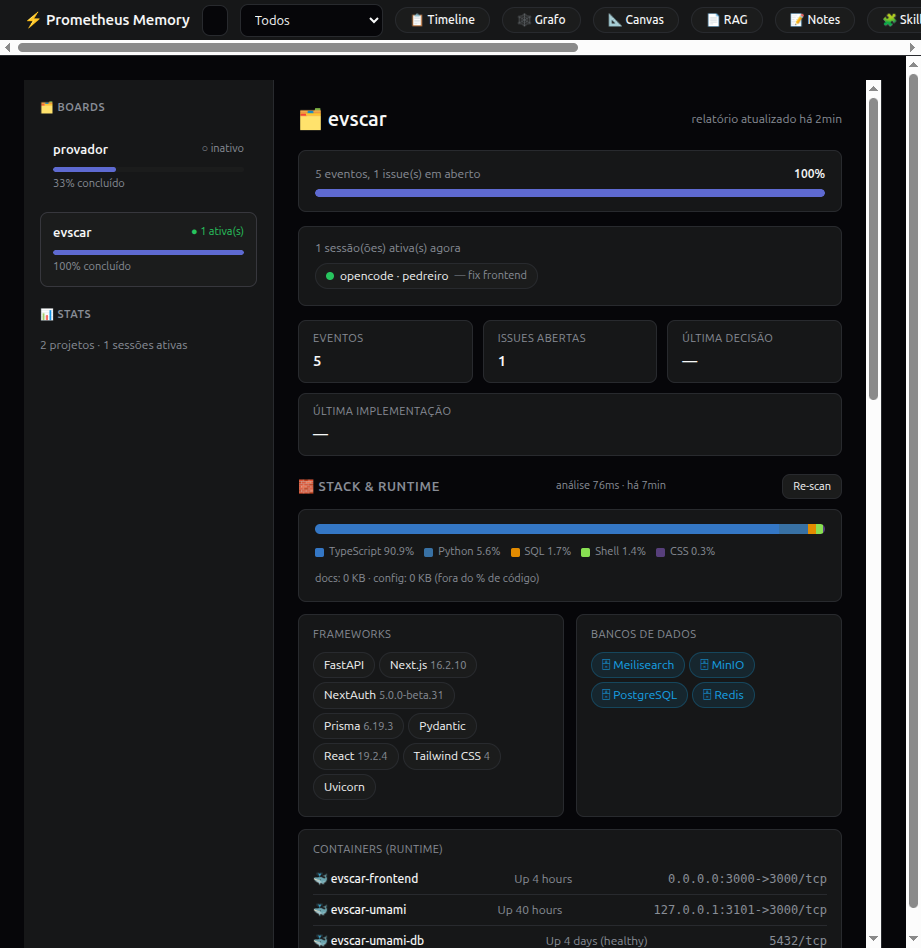
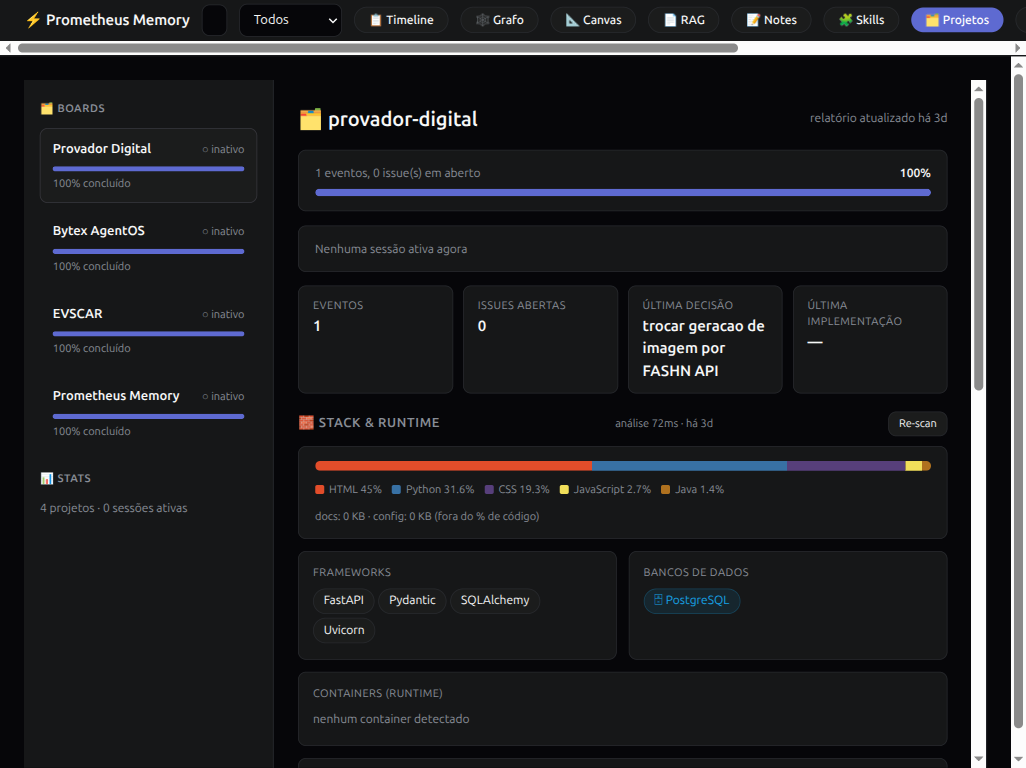
docs: atualiza 5 screenshots da UI (Canvas v2 multi-projeto, Timeline, Notes, RAG, Projetos) + PLANs identidade git e fix autoria PR #639
- Screenshots novos capturados via Playwright (:8777) e validados pelo Visionario (GLM-4.5v 5/5 nota 9, sem dados sensiveis)
- docs/PLAN_FIX_AUTORIA_PR639.md: registro do incidente de autoria (herbert@ -> hofstatter@) e correcao
- docs/PLAN_IDENTIDADE_GIT_MCPS_SCREENSHOTS.md: plano das 3 camadas de identidade git + roteamento MCPs + screenshots

diff --git a/docs/PLAN_FIX_AUTORIA_PR639.md b/docs/PLAN_FIX_AUTORIA_PR639.md
@@ -1,0 +1,35 @@
+# PLAN — Fix de autoria dos commits da PR #639 (upstream mnemosyne)
+
+- **Classificação:** SMALL · **Estado:** EXECUTADO sessão 44 (06/08/2026)
+- **Motivo:** commits `e97a122`/`1cc4aa0`/`df7e49b` da PR #639 (mnemosyne-oss/mnemosyne) foram
+  commitados com e-mail `herbert@users.noreply.github.com` — noreply de uma conta GitHub **alheia**
+  (username "herbert"), não a do Herbert (username real: `hofstatter`). CLAassistant exige que todos
+  os autores assinem o CLA → impossível pois "herbert" não é conta do Herbert.
+- **Objetivo:** reescrever autor/committer para `Herbert Hofstatter <hofstatter@users.noreply.github.com>`
+  e force-push na branch da PR. Conteúdo dos commits: **zero alteração**.
+
+---
+
+## Fases
+
+| Fase | Ação | Critério de aceite | Status |
+|---|---|---|---|
+| 0 | Backup (STATE/CONTEXT/GUARDRAILS) + este PLAN | backup exit 0 | ✅ |
+| 1 | Clonar fork `hofstatter/mnemosyne` (em /tmp) + checkout `feat/lexical-gate-knob` | branch checkout | ⏳ |
+| 2 | `git filter-branch --env-filter` → reescreve autor/committer dos 3 commits para hofstatter@ | `git log` mostra só hofstatter@ | ⏳ |
+| 3 | Validar: `git log --format` = 4 commits, 3 com hofstatter@ + 1 web (herbertsuporte@gmail.com) intacto; conteúdo idêntico (tree hash) | tree hashes iguais | ⏳ |
+| 4 | Force-push `--force-with-lease` com GH_PAT (credential helper inline, aspas duplas) | push exit 0; GitHub mostra commits com hofstatter | ⏳ |
+| 5 | `git config --global user.name/email` = Herbert Hofstatter / hofstatter@users.noreply.github.com | `git config --global user.email` retorna hofstatter@ | ⏳ |
+| 6 | GUARDRAILS regra 20 (GIT GATE): Inspetor verifica autor dos commits == hofstatter@ em toda revisão pré-push | grep no GUARDRAILS | ⏳ |
+| 7 | STATE/CONTEXT/Mnemosyne: incidente + lição | seções atualizadas + memórias | ⏳ |
+
+## Riscos / armadilhas
+
+- Force-push em branch de PR aberta: seguro se ninguém deu checkout (mantenedores não revisaram —
+  janela ideal). `--force-with-lease` protege contra overwrite de push alheio.
+- `filter-branch` é deprecated mas funciona; usar `--env-filter` só trocando e-mail, nunca conteúdo.
+- NÃO tocar no 4º commit `0a05989` (web, já atribuído a hofstatter via herbertsuporte@gmail.com).
+- Não rebasear sobre main atual (scope creep) — a PR está "out-of-date" mas mergeável; mantenedor decide.
+- GH_PAT: usar aspas DUPLAS no credential helper inline (aspas simples não expandem a variável —
+  erro da sessão 44 no push do prometheus-memory).
+- Depois do force-push: CI re-roda (~5min) + CodeRabbit re-revisa — inofensivo; CLA rechecka automático.

diff --git a/docs/PLAN_IDENTIDADE_GIT_MCPS_SCREENSHOTS.md b/docs/PLAN_IDENTIDADE_GIT_MCPS_SCREENSHOTS.md
@@ -1,0 +1,40 @@
+# PLAN — Identidade git canônica (3 camadas) + MCPs nos agentes + screenshots Opção B
+
+- **Classificação:** SMALL · **Estado:** EXECUTADO sessão 44 (06/08/2026)
+- **Motivo:** incidente PR #639 (commits com e-mail de conta alheia `herbert@...`). Herbert aprovou
+  as 3 camadas de prevenção + verificação de uso correto dos MCPs pelos agentes + atualizar os 5
+  screenshots desatualizados do repo.
+
+---
+
+## Fases
+
+| # | Ação | Critério de aceite | Status |
+|---|---|---|---|
+| 0 | Backup + este PLAN | backup exit 0 | ⏳ |
+| 1 | **Camada 2:** bloco identidade canônica + MCPs D6/D8 no `build.md` (Pedreiro) e `inspector.md` (checklist identidade) | grep "hofstatter@users.noreply.github.com" nos 2 arquivos | ⏳ |
+| 2 | **GUARDRAILS regra 20 → v5.4:** bloco identidade canônica citado pela regra | grep no GUARDRAILS | ⏳ |
+| 3 | **Camada 3 (trava mecânica):** `pre-push` hook com allowlist de e-mails (bloqueia push se `git log @{u}..HEAD --format=%ae` sair da lista) — prometheus-memory + script compartilhado `~/bin/git-hook-pre-push.sh` | push com e-mail errado → bloqueado; correto → passa (teste) | ⏳ |
+| 4 | **Screenshots Opção B** (Playwright :8777): canvas.png, timeline.png, notes.png, rag.png, projetos.png → Visionário valida cada um (nota ≥7/10) | 5 screenshots novos + validação | ⏳ |
+| 5 | Commit + push (screenshots + docs; GIT GATE: Inspetor ✅ + SIM Herbert) | push exit 0 | ⏳ |
+| 6 | STATE.md + CONTEXT.md + Mnemosyne | seções atualizadas | ⏳ |
+
+## Identidade canônica (a ser gravada nos 3 lugares)
+
+> **Identidade Git ÚNICA do Herbert:** nome `Herbert Hofstatter` · username GitHub `hofstatter` ·
+> e-mails permitidos: `hofstatter@users.noreply.github.com` (canônico CLI) e `herbertsuporte@gmail.com`
+> (web UI). **PROIBIDO qualquer outro** — `herbert@users.noreply.github.com` é conta ALHEIA
+> (incidente PR #639, 06/08).
+
+## MCPs (a registrar no build.md)
+
+- **Cascata D8:** Context7 (doc lib) → gh_grep (código) → Tavily (busca) → Firecrawl (scrape/crawl);
+  nunca Tavily+Firecrawl na mesma query.
+- **Screenshot D6:** localhost/privado → Playwright · URL pública → ScreenshotAPI (`enable_caching=true`).
+- Inspector: verificar `%ae` de todos os commits na allowlist em toda revisão pré-push.
+
+## Riscos
+
+- Hook pre-push: manter compatível com o marcador `.git/PUSH_APPROVED` existente (checar AMBOS).
+- Screenshots: abas com dados reais (timeline mostra memórias) — ok para repo público (já publicado antes).
+- Não quebrar o fluxo GIT GATE: hook novo só adiciona a checagem de e-mail, não remove a de marcador.
